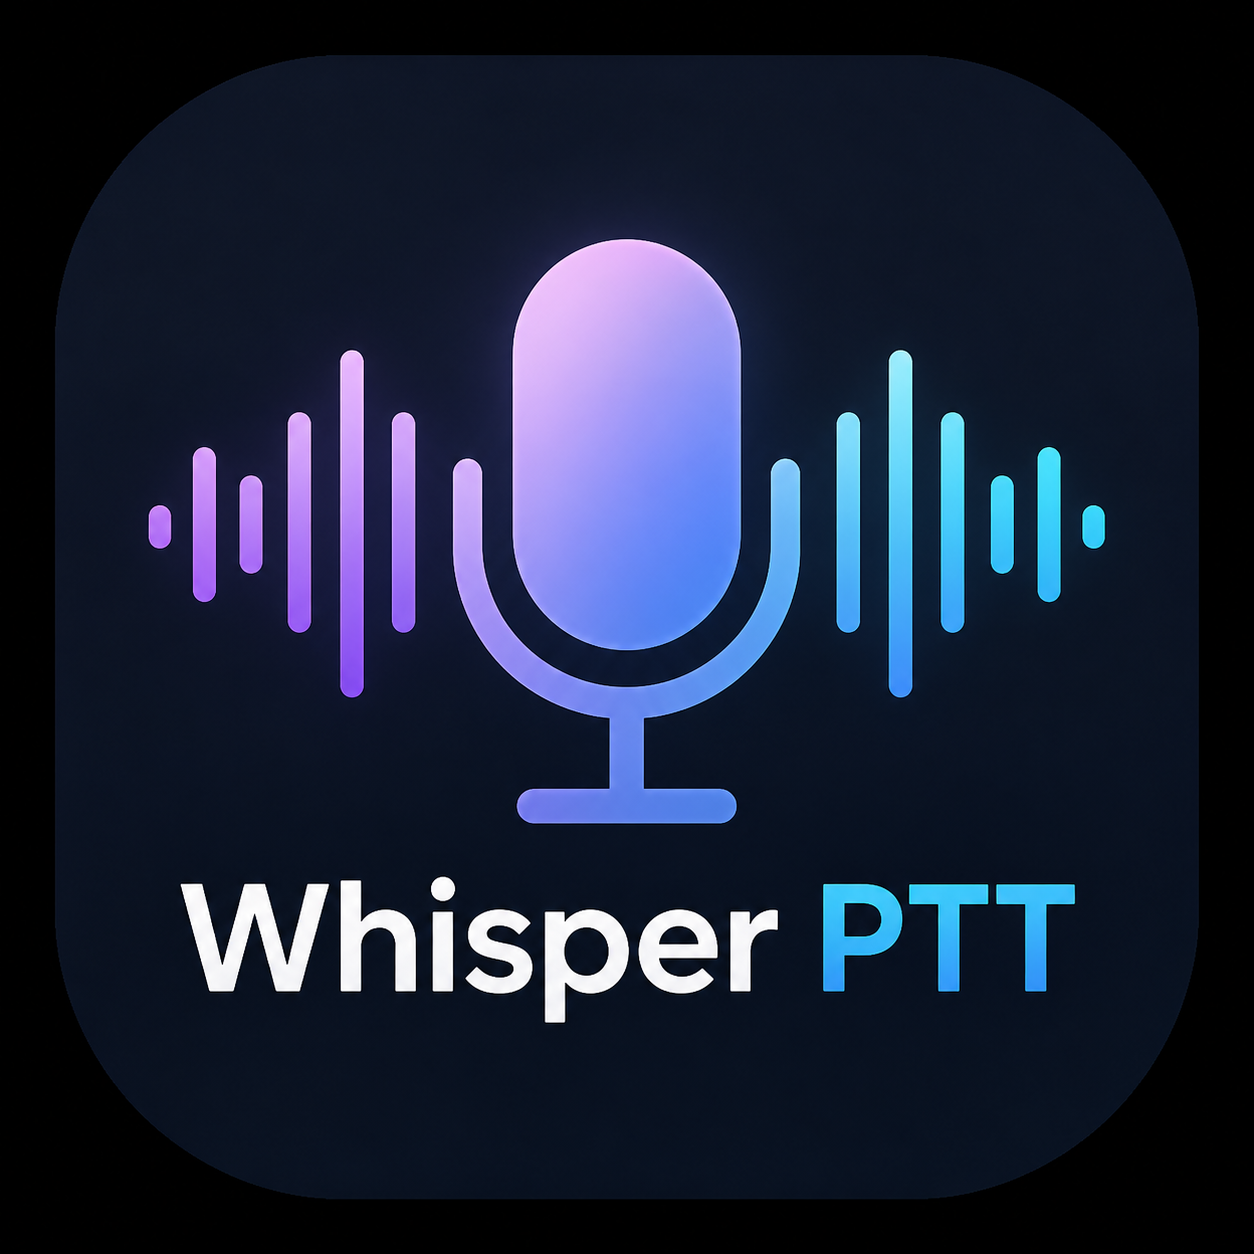
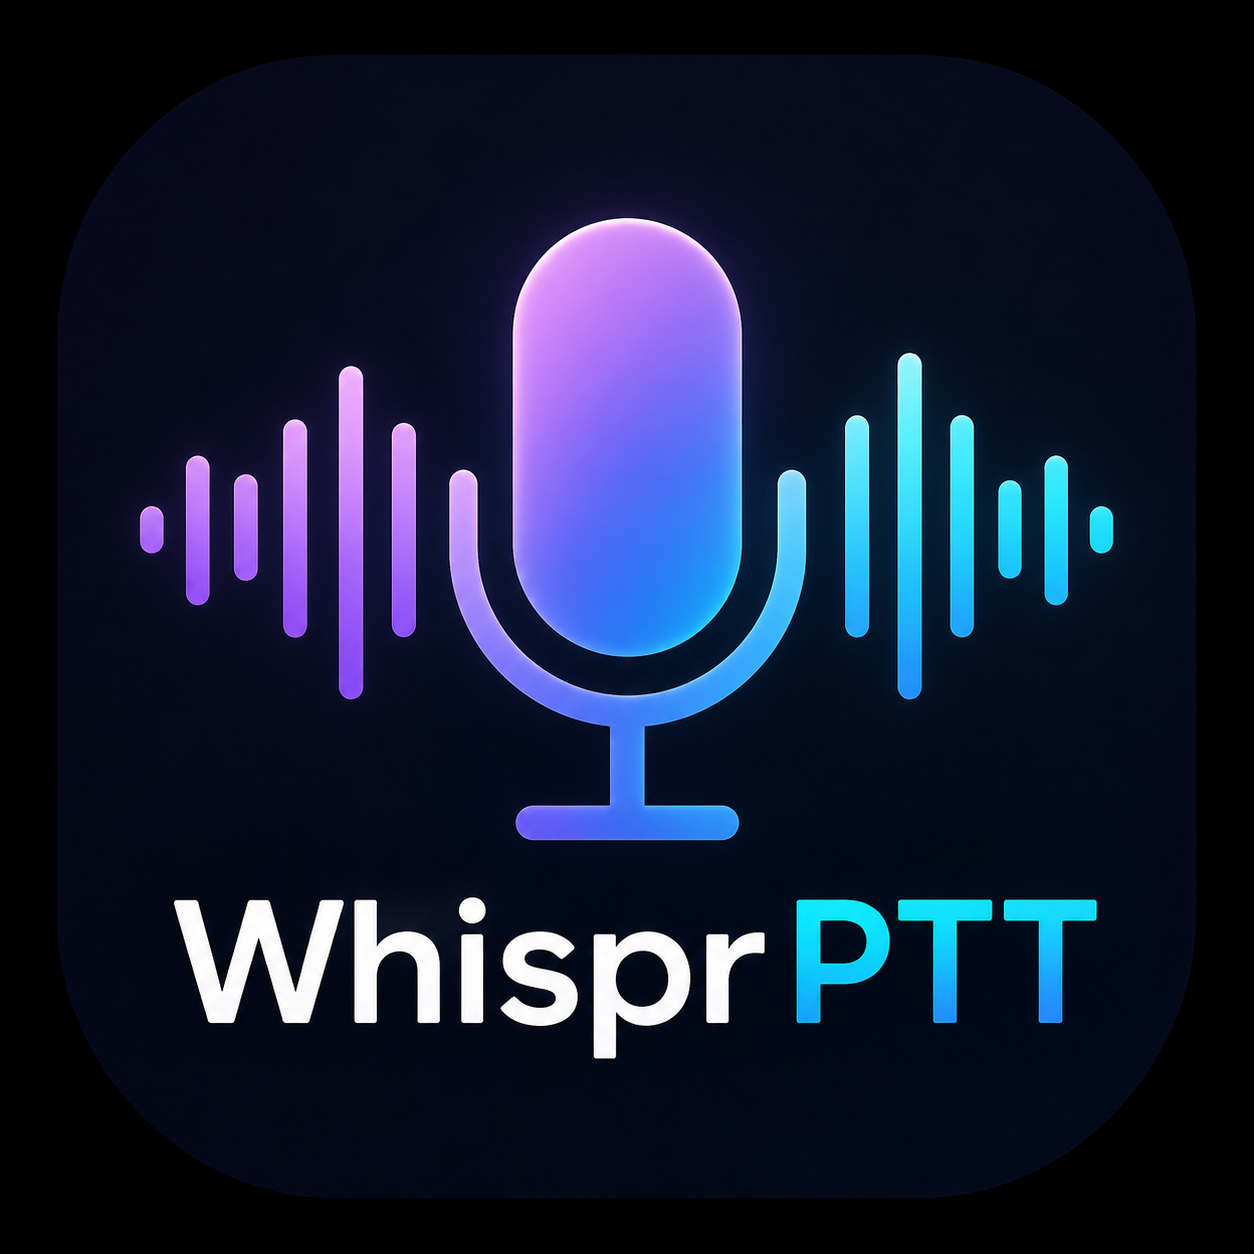
Standardize app name to WhisprPTT everywhere
References to the AI model (Whisper, faster-whisper, WhisperModel)
are unchanged — only the app name is affected. Updated logo too.

diff --git a/whispr_ptt.py b/whispr_ptt.py
@@ -1,5 +1,5 @@
 #!/usr/bin/env python3
-"""WhisperPTT — push-to-talk local speech dictation. Tray app, no console window."""
+"""WhisprPTT — push-to-talk local speech dictation. Tray app, no console window."""
 
 import json
 import logging
@@ -207,7 +207,7 @@ class PushToTalkRecorder:
     # -- Status ---------------------------------------------------------------
 
     def _status(self, text: str):
-        self.tray.title = f"Whisper PTT — {text}"
+        self.tray.title = f"Whispr PTT — {text}"
 
     # -- Model hot-swap -------------------------------------------------------
 
@@ -402,12 +402,12 @@ def main():
             print(f"[{idx}]  {name}")
         return
 
-    log.info("=== WhisperPTT starting ===")
+    log.info("=== WhisprPTT starting ===")
     config = Config()
     mics = list_mics()
 
     icon_image = Image.open(_asset_path("whisprPTT.png"))
-    tray = pystray.Icon("WhisperPTT", icon_image, "Whisper PTT — Loading model...")
+    tray = pystray.Icon("WhisprPTT", icon_image, "Whispr PTT — Loading model...")
 
     model = _load_model(config.language)
     recorder = PushToTalkRecorder(model, config, tray)

diff --git a/README.md b/README.md
@@ -1,7 +1,7 @@
-# WhisperPTT
+# WhisprPTT
 
 <p align="center">
-  <img src="whisprPTT.png" width="160" alt="WhisperPTT logo">
+  <img src="whisprPTT.png" width="160" alt="WhisprPTT logo">
 </p>
 
 <p align="center">
@@ -18,7 +18,7 @@
 3. Release — your words are transcribed and typed at wherever your cursor is
 4. Works in any app: browsers, editors, chat, email, terminals
 
-WhisperPTT sits silently in your system tray. Right-click the icon to change settings or quit.
+WhisprPTT sits silently in your system tray. Right-click the icon to change settings or quit.
 
 ---
 
@@ -33,7 +33,7 @@ WhisperPTT sits silently in your system tray. Right-click the icon to change set
 
 > **SmartScreen warning:** Windows may show "Windows protected your PC" the first time. Click **More info → Run anyway**. This is standard for unsigned open-source apps.
 
-> **First run:** WhisperPTT downloads the Whisper speech model (~240 MB) on first launch. This happens once and is cached for all future runs.
+> **First run:** WhisprPTT downloads the Whisper speech model (~240 MB) on first launch. This happens once and is cached for all future runs.
 
 ### Option B — Run from source
 
@@ -70,7 +70,7 @@ There is no prebuilt `.app` yet for macOS. You need to run from source.
 
 ### 1. Install system dependencies
 
-WhisperPTT uses PyAudio for microphone access, which requires PortAudio:
+WhisprPTT uses PyAudio for microphone access, which requires PortAudio:
 
 ```bash
 # Install Homebrew if you don't have it
@@ -93,7 +93,7 @@ pip install -r requirements.txt
 
 ### 3. Grant permissions
 
-macOS requires two permissions for WhisperPTT to work. You'll be prompted automatically on first run, but you can also set them in advance:
+macOS requires two permissions for WhisprPTT to work. You'll be prompted automatically on first run, but you can also set them in advance:
 
 **Accessibility** (required to monitor keypresses and type text):
 > System Settings → Privacy & Security → Accessibility → add Terminal (or your Python app)
